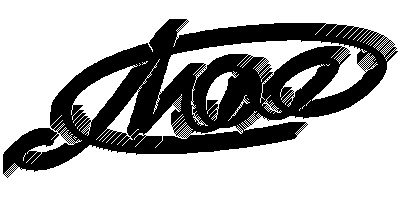
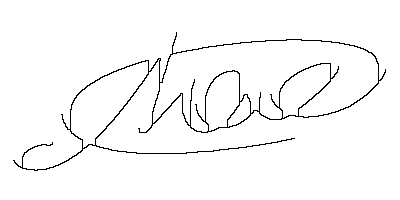
thinning signature implementation

diff --git a/SignatureRecognitionApplication/src/preprocessing/OpenCVSignatureImageProcessorImplemenor.java b/SignatureRecognitionApplication/src/preprocessing/OpenCVSignatureImageProcessorImplemenor.java
@@ -54,20 +54,17 @@ public class OpenCVSignatureImageProcessorImplemenor extends SignatureImageProce
 				for (int y = 1; y + 1 < image.cols(); y++) {
 					int numberOfWhiteToBlackTransitions = countNumberOfWhiteToBlackTransitionsAroundPixel(x, y);
 					int numberOfBlackNeighbourPixels = countBlackNeighbourPixels(x, y);
-					if (image.get(x, y)[0] == 255 && 2 <= numberOfBlackNeighbourPixels
+					if (image.get(x, y)[0] == 0 && 2 <= numberOfBlackNeighbourPixels
 							&& numberOfBlackNeighbourPixels <= 6 && numberOfWhiteToBlackTransitions == 1
-							&& (atLeastOneWhitePixel(image.get(x - 1, y)[0] , image.get(x, y + 1)[0] , image.get(x, y - 1)[0])
-									|| (countNumberOfWhiteToBlackTransitionsAroundPixel(x - 1, y) != 1))
-							&& (atLeastOneWhitePixel(image.get(x - 1, y)[0] , image.get(x, y + 1)[0], image.get(x + 1, y)[0])
-									|| (countNumberOfWhiteToBlackTransitionsAroundPixel(x, y + 1) != 1))) {
-						
-						this.image.put(x, y, 0);
+							&& atLeastOneWhitePixel(image.get(x - 1, y)[0] , image.get(x, y + 1)[0] , image.get(x, y - 1)[0])	
+							&& atLeastOneWhitePixel(image.get(x - 1, y)[0] , image.get(x, y + 1)[0], image.get(x + 1, y)[0])
+					) {
+						this.image.put(x, y, 255);
 						hasChange = true;
 					}
 				}
 			}
-		} while(i++ < 10);
-			
+		} while(hasChange);
 	}
 	
 	private boolean atLeastOneWhitePixel(double ... values) {
@@ -118,7 +115,7 @@ public class OpenCVSignatureImageProcessorImplemenor extends SignatureImageProce
 		}
 
 		// p8 p9
-		if (x - 1 >= 0 && y - 1 >= 0 && this.image.get(x, y - 1)[0] == 0 && this.image.get(x - 1, y - 1)[0] == 0) {
+		if (x - 1 >= 0 && y - 1 >= 0 && this.image.get(x, y - 1)[0] == 255 && this.image.get(x - 1, y - 1)[0] == 0) {
 			counter++;
 		}
 
